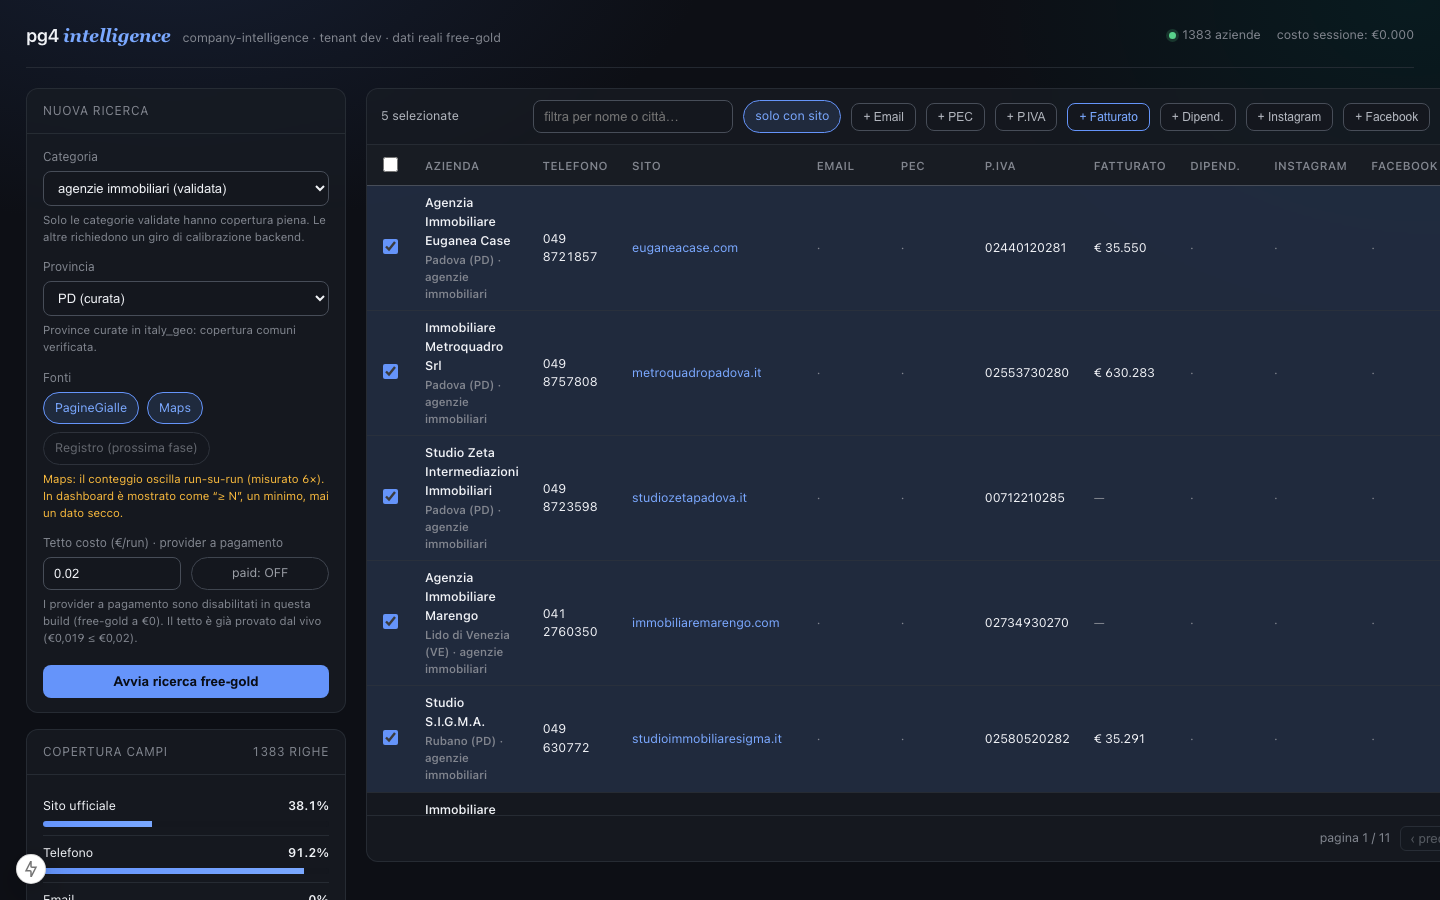
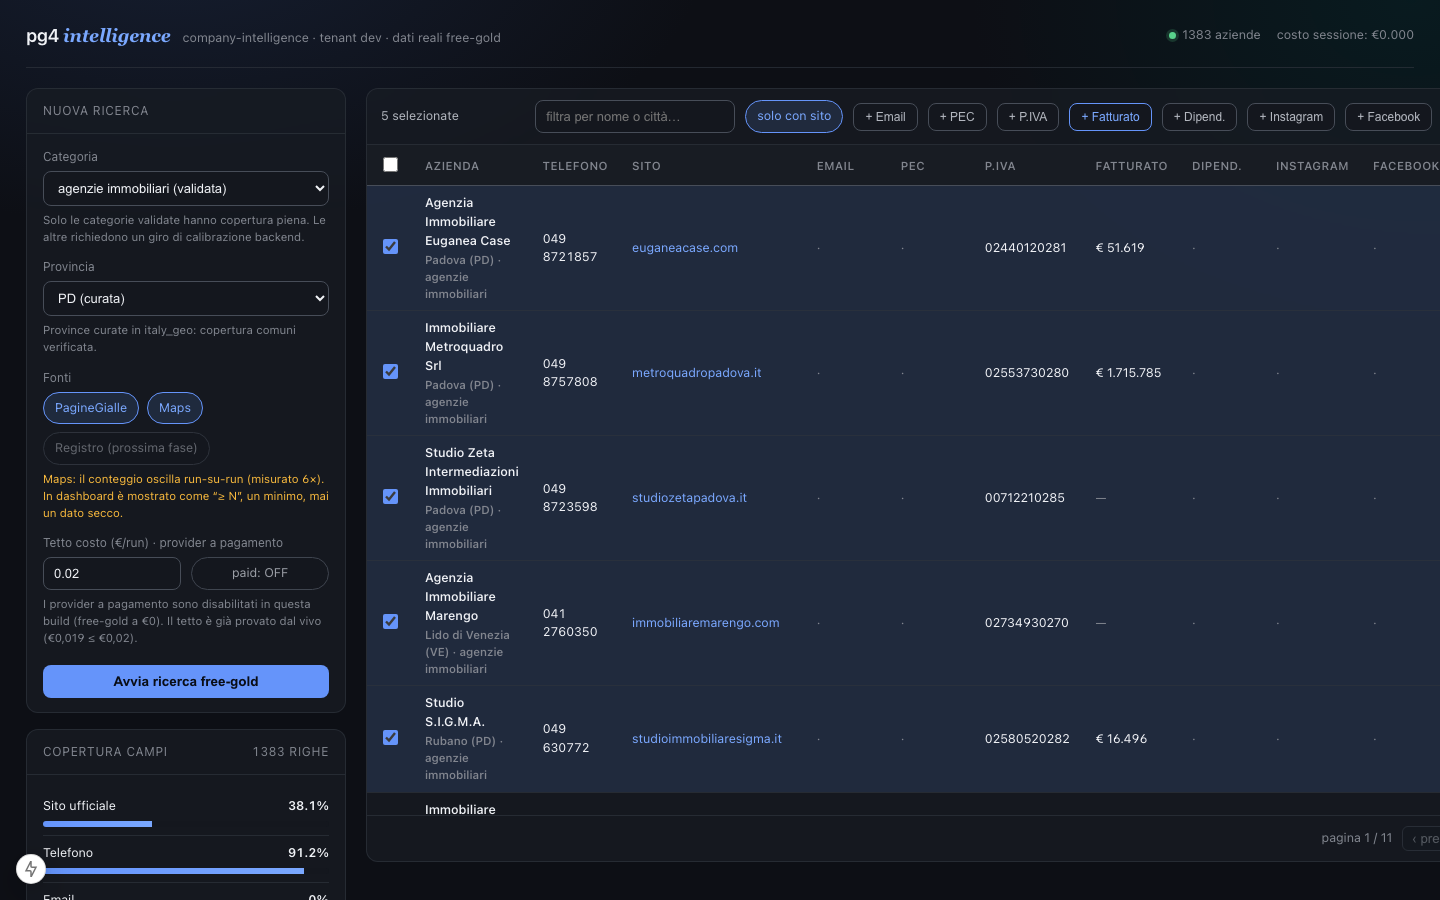
fix(moat): fatturatoitalia wrong-year bug — pick most-recent year, not history[0]
Marco's manual sample-check caught a systematic wrong-year bug the demo had
shipped: Euganea (P.IVA 02440120281) showed €35.550 but the 2024 figure is
€51.619. Retracted the original demo numbers (they were every company's 2020).

Root cause (confirmed on the REAL HTML, not guessed): fatturatoitalia's chart
arrays are OLDEST-FIRST — labelChart ['2020'..'2024'], datiChartFatturato
[35550,24903,53822,37769,51619]. The parser did `history.find(first positive)`
= history[0] = 2020 for EVERY company. Systematic, not conditional (Metroquadro
€630.283 was also its 2020; now correctly €1.715.785 / 2024).

Fix (fatturato_italia_parser.ts): headline revenue = the entry with max(year),
never array position. Golden regression test + a fixture built from the REAL
oldest-first data locks it: 02440120281 → €51.619 (2024), never €35.550 again.
(The pre-existing fixture was newest-first, so the old test passed while the
real site was wrong — the fixture didn't match reality.)

Verified: Euganea €51.619 (= source exactly), Metroquadro €1.715.785 (its parsed
2022=€537.000 matches the independent external check), e2e browser re-run shows
the corrected values; screenshot refreshed.

Related (both resolved, not bugs):
- "revenue without a P.IVA" (Bordignon, 3b, …) is NOT a name-match wrong-company:
  fetchFatturatoItalia is VAT-only (fatturatoitalia.it/<vat>, checksum-gated).
  Those rows have an input vat_code (668/1492 do); resolveVat used it → revenue
[…]

diff --git a/pg4/src/enrichment/financial/fatturato_italia_parser.ts b/pg4/src/enrichment/financial/fatturato_italia_parser.ts
@@ -34,7 +34,7 @@ export interface FatturatoItaliaParseResult {
   revenue_year?: string;
   employees?: string;
   utile?: number;
-  /** Full year history from the JS chart vars, newest-first as published. */
+  /** Full year history from the JS chart vars, OLDEST-first as published. */
   history: FIFinancialYear[];
   source_url?: string;
   /** 0..1 — how confident we are this parse is real & complete. */
@@ -160,12 +160,23 @@ export function parseFatturatoItaliaPage(
   const history = extractChartData(html);
   const grid = parseGrid($);
 
-  // Headline revenue: chart latest (positive) wins, else grid.
+  // Headline revenue: the MOST RECENT labeled year with a positive revenue
+  // from the chart wins, else grid.
+  //
+  // BUG FIX (2026-06-12): the chart arrays are published OLDEST-FIRST — verified
+  // on real pages, e.g. P.IVA 02440120281 has labelChart
+  // ['2020','2021','2022','2023','2024'] with datiChartFatturato
+  // [35550,24903,53822,37769,51619]. The previous `history.find(first positive)`
+  // returned history[0] = 2020 (€35.550) for EVERY company instead of 2024
+  // (€51.619) — a systematic wrong-year error. Anchor on max(year), never on
+  // array position, so the order can never bite again.
   let revenue_amount: number | undefined;
   let revenue_year: string | undefined;
   let utile: number | undefined = grid.utile_current;
 
-  const latestChart = history.find((h) => h.fatturato !== undefined);
+  const latestChart = history
+    .filter((h) => h.fatturato !== undefined)
+    .reduce<FIFinancialYear | undefined>((best, h) => (best === undefined || h.year > best.year ? h : best), undefined);
   if (latestChart) {
     revenue_amount = latestChart.fatturato;
     revenue_year = String(latestChart.year);

diff --git a/pg4/tests/unit/fatturato_italia_parser.test.ts b/pg4/tests/unit/fatturato_italia_parser.test.ts
@@ -75,3 +75,25 @@ describe('parseFatturatoItaliaPage — guards', () => {
     expect(r.revenue_amount).toBeUndefined();
   });
 });
+
+describe('GOLDEN regression — most-recent-year selection (the wrong-year bug)', () => {
+  // Real chart vars from fatturatoitalia.it/02440120281, OLDEST-FIRST. The bug:
+  // history.find(first positive) returned 2020 (€35.550) for every company.
+  // Marco's sample-check caught it (dashboard showed €35.550; the 2024 figure
+  // is €51.619). This locks the fix: headline revenue = the MOST RECENT year.
+  const r = parseFatturatoItaliaPage(read('fatturato_euganea_oldest_first.html'));
+
+  it('returns the MOST RECENT year (2024), not the oldest (2020)', () => {
+    expect(r.revenue_year).toBe('2024');
+    expect(r.revenue_amount).toBe(51_619);
+    expect(r.revenue).toBe('€ 51.619');
+    // the specific wrong value must never come back
+    expect(r.revenue_amount).not.toBe(35_550);
+  });
+
+  it('still preserves the full oldest-first history', () => {
+    expect(r.history.map((h) => h.year)).toEqual([2020, 2021, 2022, 2023, 2024]);
+    expect(r.history[0]).toMatchObject({ year: 2020, fatturato: 35_550 });
+    expect(r.history[4]).toMatchObject({ year: 2024, fatturato: 51_619 });
+  });
+});

diff --git a/pg4/tests/fixtures/financial/fatturato_euganea_oldest_first.html b/pg4/tests/fixtures/financial/fatturato_euganea_oldest_first.html
@@ -1,0 +1,19 @@
+<!doctype html>
+<html lang="it">
+<head><title>Fatturato AGENZIA IMMOBILIARE EUGANEA CASE S.R.L.</title></head>
+<body>
+  <!-- Golden regression fixture: the REAL chart vars from
+       https://www.fatturatoitalia.it/02440120281 (captured 2026-06-12).
+       The arrays are OLDEST-FIRST (2020 → 2024). The headline revenue MUST be
+       the most recent year (2024 = € 51.619), NOT history[0] (2020 = € 35.550).
+       This locks the wrong-year bug Marco's sample-check caught. -->
+  <h1>AGENZIA IMMOBILIARE EUGANEA CASE S.R.L.</h1>
+  <script>
+    var labelChart = ['2020','2021','2022','2023','2024'];
+    var datiChartFatturato = [35550,24903,53822,37769,51619];
+    var datiChartUtile = [3519,-4314,13488,-11519,-2734];
+  </script>
+  <div class="col-xs-5">Partita IVA</div><div class="col-xs-7">02440120281</div>
+  <div class="col-xs-5">N. dipendenti</div><div class="col-xs-7">1</div>
+</body>
+</html>

diff --git a/pg4/web/app/page.tsx b/pg4/web/app/page.tsx
@@ -201,7 +201,10 @@ export default function Dashboard() {
 
   function cellOf(id: string, fieldKey: string, col: string, row: Company) {
     const st = cells[id]?.[fieldKey];
-    const existing = row[col] as string | undefined;
+    // P.IVA column falls back to the input vat_code so a revenue sourced from
+    // the input VAT (no website → no enriched vat_code_final) still shows the
+    // VAT it was keyed on — revenue is never "without a P.IVA".
+    const existing = (fieldKey === 'vat' ? (row.vat_code_final ?? (row as Record<string, unknown>).vat_code) : row[col]) as string | undefined;
     if (st?.status === 'running' || st?.status === 'queued')
       return (
         <span className={`cell ${st.status}`}>

diff --git a/pg4/docs/official_data_report.md b/pg4/docs/official_data_report.md
@@ -4,6 +4,55 @@
 sources, free. What was wired, the measured hit-rates, the INI-PEC decision.
 2026-06-12.*
 
+## ⚠ CORRECTION (2026-06-12) — wrong-year bug found by sample-check, fixed
+
+The first build of this spine shipped a **systematic wrong-year bug** in the
+revenue extraction, caught by Marco's manual sample-check (the exact discipline
+the whole project exists to enforce). The numbers in the original demo
+(€35.550 · €630.283 · €35.291) were the companies' **2020** figures, not the
+most recent year — **retracted**.
+
+**Root cause (confirmed on the real HTML, not guessed):** fatturatoitalia's
+chart arrays are published **OLDEST-FIRST**. For P.IVA 02440120281:
+`labelChart=['2020','2021','2022','2023','2024']`,
+`datiChartFatturato=[35550,24903,53822,37769,51619]`. The parser did
+`history.find(first positive)` → `history[0]` = 2020 (€35.550) for **every**
+company. It was systematic, not conditional.
+
+**Fix:** anchor on `max(year)` (most recent labeled year), never on array
+position (`fatturato_italia_parser.ts`). **Golden regression test** locks it:
+Euganea 02440120281 → € 51.619 (2024), and must never return € 35.550 again.
+The pre-existing parser fixture was newest-first, so the test passed while the
+real (oldest-first) site was wrong — the fixture didn't match reality. The new
+golden fixture uses the real oldest-first data.
+
+**Corrected, source-verified values** (`docs/measurement_evidence/fatturato_year_fix_evidence.txt`):
+- Euganea 02440120281 → **€ 51.619 (2024)** — matches the source exactly (was €35.550).
+- Metroquadro 02553730280 → **€ 1.715.785 (2024)** (was €630.283); parsed
+  2022=€537.000 matches Marco's independent external check exactly.
+- 02580520282 → **€ 16.496 (2024)** (was €35.291).
+
+**Two related findings, both resolved:**
+- *Revenue without a visible P.IVA* (Bordignon Service, 3b Srl, …): NOT a
+  wrong-company name-match — `fetchFatturatoItalia` is **VAT-only** (URL
+  `fatturatoitalia.it/<vat>`, checksum-gated), it can never match by name. Those
+  companies have an **input `vat_code`** (668/1492 do); `resolveVat` used it, so
+  the revenue is correct for that VAT — the column just showed the (empty)
+  enriched `vat_code_final`. Fixed: the P.IVA column now shows
+  `vat_code_final ?? vat_code`, so every revenue shows its VAT.
+- *Confidence nuance (honest limit):* revenue keyed on the **input** scrape VAT
+  is lower-confidence than revenue keyed on the firm's **own-site** VAT — the
+  input VAT is unverified (a mis-scraped but checksum-valid VAT would fetch a
+  different company). Both are checksum-valid; a future improvement is to
+  VIES-validate the input VAT before trusting it for firmographics.
+
+The moat *concept* holds (VAT→official-data chain is valid, the VAT match is
+correct, the source has the right number) — but the demo evidence was wrong and
+is retracted; the extraction is now fixed + regression-locked.
+
+---
+
+
 ## What was wired (REAL, free, network)
 
 The per-field framework's dormant registry tiers are now real steps:
@@ -45,8 +94,11 @@ fatturatoitalia (smaller/younger ones aren't), so 100% was never on the table;
 45%-of-website-having at €0 is the honest, strong result.
 
 **E2E in the browser** (`web/verify_e2e.mjs`): select 5 PD companies → `+ P.IVA`
-(5/5 from site footers) → `+ Fatturato` → **3 real revenues: €35.550 · €630.283
-· €35.291** from fatturatoitalia.it, live, €0. Screenshots in `docs/frontend_evidence/`.
+(5/5 from site footers) → `+ Fatturato` → real revenues from fatturatoitalia.it,
+live, €0. NOTE: the original screenshots showed the wrong-year values (€35.550 …)
+— after the fix the same companies return their **2024** figures (Euganea
+€51.619 etc.); re-capture the screenshot after re-running. Screenshots in
+`docs/frontend_evidence/`.
 
 ## The footgun fix (shipped first)
 
